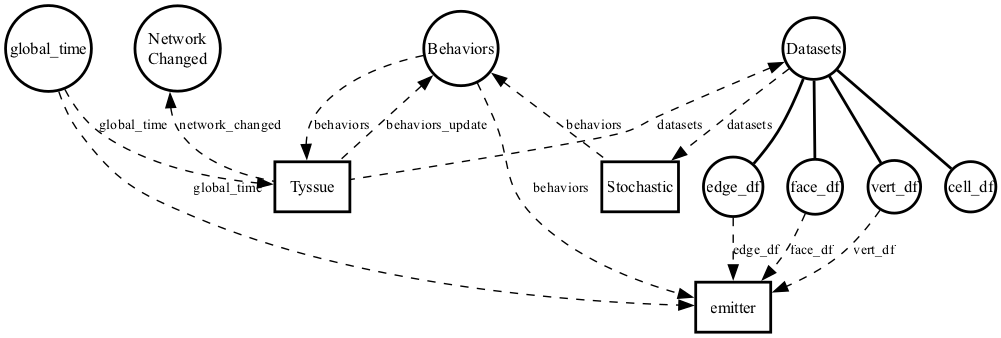
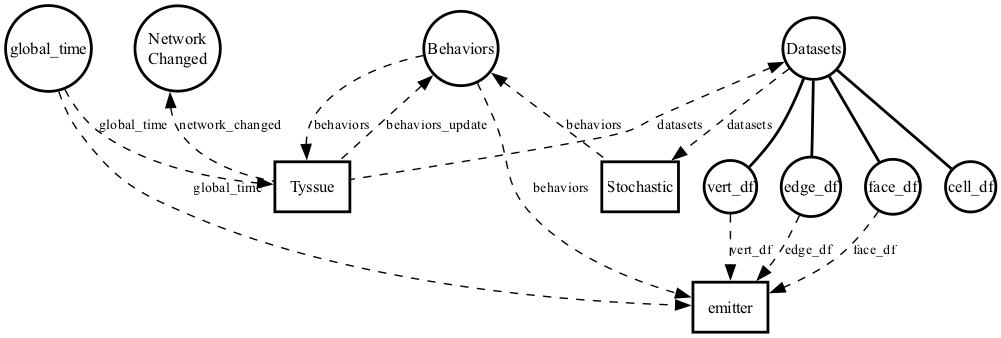
edge coloring

Changed region(s): [[0.6813, 0.2367, 0.9291, 0.6509], [0.6503, 0.6805, 0.8981, 0.9763]]

diff --git a/vivarium_tyssue/draw/kwd_functions.py b/vivarium_tyssue/draw/kwd_functions.py
@@ -11,7 +11,7 @@ CELL_TYPE_COLORS = {
         "ent": "#C45454",
         "gc": "#45B53E",
         "extruding": "#000000",
-        "dividing": "#feeda3"
+        "dividing": "#feed"
     }
 
 def cell_type_kwds(sheet, alpha=1.0):
@@ -49,6 +49,25 @@ def crypt_cell_type_kwds(sheet, alpha=1.0):
         }
     }
     return kwds
+
+def line_tension_edge_kwds(color_range=(-0.3, 0.3), colormap="coolwarm", width=1.5):
+    """Draw kwds that colour each edge by its current ``line_tension``.
+
+    ``color`` is a callable so tyssue's ``_parse_edge_specs`` re-evaluates it on
+    every frame — the only way to get per-frame edge colours out of the 2-D
+    ``create_gif`` (which, unlike ``create_gif_3d``, has no ``dynamic_draw_kwds``
+    hook). ``color_range`` fixes the tension->colour mapping across all frames so a
+    given colour always means the same tension.
+    """
+    return {
+        "edge": {
+            "visible": True,
+            "color": lambda sheet: sheet.edge_df["line_tension"].to_numpy(),
+            "colormap": colormap,
+            "color_range": color_range,
+            "width": width,
+        }
+    }
 
 if __name__ == "__main__":
     from vivarium_tyssue.models.crypt_gillespie.crypt_params import spatial_prob, assign_cell_types

diff --git a/vivarium_tyssue/processes/eulersolver.py b/vivarium_tyssue/processes/eulersolver.py
@@ -72,7 +72,6 @@ class EulerSolver(Process):
         self.geom.update_all(self.eptm)
         effectors = [self.maps["EFFECTORS_MAP"][effector] for effector in config["effectors"]]
         self.model = self.maps["FACTORY_MAP"][config["factory"]](effectors, self.maps["EFFECTORS_MAP"][config["ref_effector"]])
-        self.history = History(self.eptm)
         if len(config["parameters"]) > 0:
             for dataframe, parameters in config["parameters"].items():
                 df = getattr(self.eptm, dataframe)
@@ -104,6 +103,10 @@ class EulerSolver(Process):
             self.bounds = None
         # Normalize any StringDtype columns from parameter assignment (pandas 3.0).
         self._coerce_string_columns()
+        # Build the history only after the configured parameters (e.g.
+        # line_tension) have been written onto the dataframes, so those columns
+        # are actually recorded each step and available for per-frame colouring.
+        self.history = History(self.eptm)
 
     def _coerce_string_columns(self):
         """pandas 3.0 gives scalar-string column assignments (e.g. ``cell_type``)